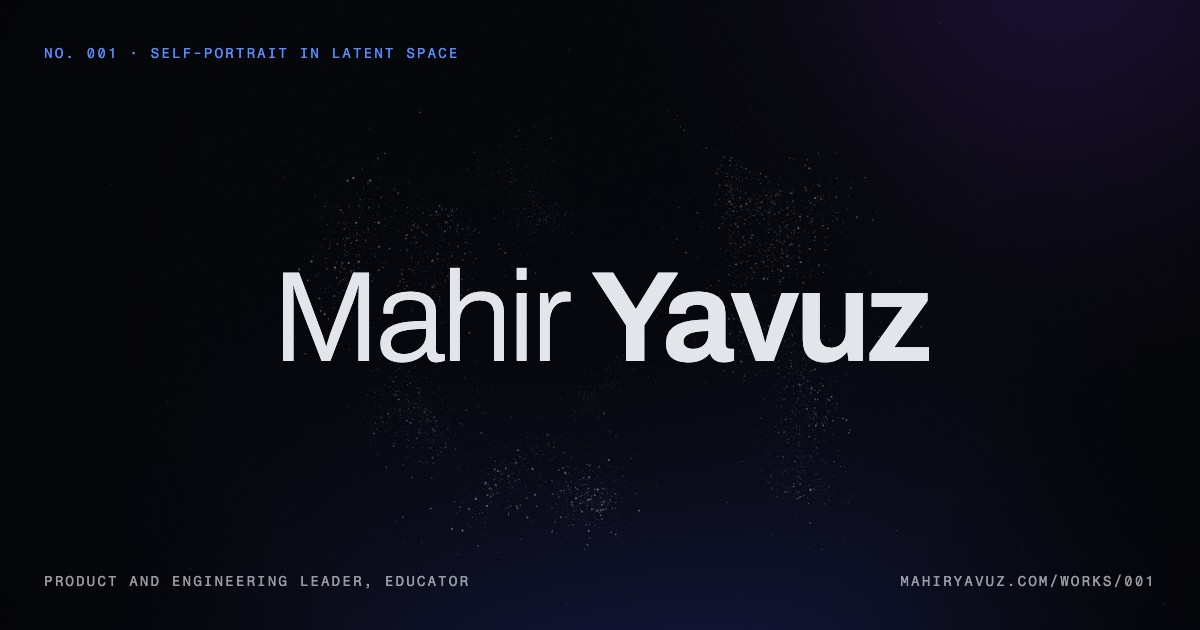
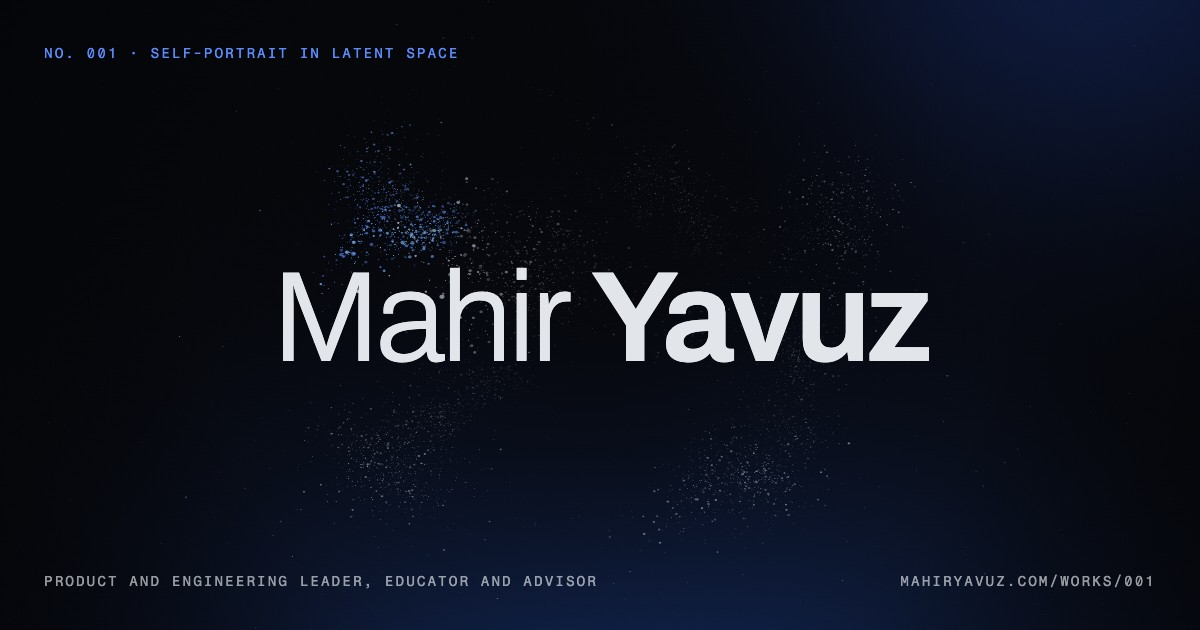
Add advisor to the role line on every page and share image
Product and engineering leader, educator and advisor, working with data
since 1998. On 002 the longer line now wraps after the roles.

diff --git a/index.html b/index.html
@@ -3,8 +3,8 @@
 <head>
 <meta charset="utf-8">
 <meta name="viewport" content="width=device-width, initial-scale=1">
-<title>Mahir Yavuz · Product and engineering leader, educator</title>
-<meta name="description" content="Mahir Yavuz is a product and engineering leader and educator, working with data since 1998. Head of Engineering at AirOps; before that Etsy, Topos and R/GA.">
+<title>Mahir Yavuz · Product and engineering leader, educator and advisor</title>
+<meta name="description" content="Mahir Yavuz is a product and engineering leader, educator and advisor, working with data since 1998. Head of Engineering at AirOps; before that Etsy, Topos and R/GA.">
 <meta name="author" content="Mahir Yavuz">
 <link rel="canonical" href="https://mahiryavuz.com/">
 <link rel="icon" href="/favicon.svg" type="image/svg+xml">
@@ -15,7 +15,7 @@
 <meta property="profile:last_name" content="Yavuz">
 <meta property="og:site_name" content="Mahir Yavuz">
 <meta property="og:title" content="Mahir Yavuz">
-<meta property="og:description" content="Product and engineering leader, educator, working with data since 1998.">
+<meta property="og:description" content="Product and engineering leader, educator and advisor, working with data since 1998.">
 <meta property="og:url" content="https://mahiryavuz.com/">
 <meta property="og:image" content="https://mahiryavuz.com/og.jpg">
 <meta property="og:image:width" content="1200">
@@ -57,7 +57,7 @@
       "name": "Mahir Yavuz",
       "url": "https://mahiryavuz.com/",
       "image": "https://mahiryavuz.com/profile.jpg",
-      "description": "Product and engineering leader and educator, working with data since 1998.",
+      "description": "Product and engineering leader, educator and advisor, working with data since 1998.",
       "jobTitle": "Head of Engineering",
       "worksFor": {
         "@type": "Organization",
@@ -118,7 +118,7 @@
 <body>
   <main>
     <h1>Mahir Yavuz</h1>
-    <p class="role">Product and engineering leader, educator, working with data since&nbsp;1998.</p>
+    <p class="role">Product and engineering leader, educator and advisor, working with data since&nbsp;1998.</p>
     <!-- gen:bio -->
     <p class="bio-text">Head of Engineering at AirOps. Before that, Mahir was Head of Engineering for Search, Recommendations and Ads at Etsy, co-founder and CTO of Topos, Director of Data Science at R/GA and Senior Researcher at Ars Electronica Futurelab in Linz, and his teams have taken on data problems for companies including Nike, PwC, Google and Microsoft. He has taught since 2003, at Columbia University, the University of Pennsylvania, Pratt and the University of Art and Design Linz, with guest lectures at MIT, NYU and SVA. His work has been shown at the Ars Electronica Festival, SIGGRAPH, ISEA and the Istanbul Biennial, and he has spoken at TEDx Istanbul and Vienna, Microsoft Build, Visualized and the Fast Company Innovation Festival.</p>
     <!-- /gen:bio -->

diff --git a/works/002/index.html b/works/002/index.html
@@ -4,7 +4,7 @@
 <meta charset="utf-8">
 <meta name="viewport" content="width=device-width, initial-scale=1, viewport-fit=cover">
 <title>Mahir Yavuz · Self-portrait in type</title>
-<meta name="description" content="Self-portrait in type (No. 002): the homepage of Mahir Yavuz, product and engineering leader and educator, as a letterpress print with his portrait set in the page’s own text.">
+<meta name="description" content="Self-portrait in type (No. 002): the homepage of Mahir Yavuz, product and engineering leader, educator and advisor, as a letterpress print with his portrait set in the page’s own text.">
 <meta name="author" content="Mahir Yavuz">
 <link rel="canonical" href="https://mahiryavuz.com/works/002/">
 <link rel="icon" href="/favicon.svg" type="image/svg+xml">
@@ -42,7 +42,7 @@
       "name": "Mahir Yavuz",
       "url": "https://mahiryavuz.com/",
       "image": "https://mahiryavuz.com/profile.jpg",
-      "description": "Product and engineering leader and educator, working with data since 1998.",
+      "description": "Product and engineering leader, educator and advisor, working with data since 1998.",
       "jobTitle": "Head of Engineering",
       "worksFor": {
         "@type": "Organization",
@@ -179,6 +179,8 @@
   @keyframes press { from { opacity: 0; font-weight: 400; } 55% { opacity: 1; } to { opacity: 1; font-weight: 720; } }
 
   .role { margin: 0 0 2.4rem; font-size: .74rem; font-weight: 500; letter-spacing: .15em; text-transform: uppercase; color: var(--faint); }
+  /* when the line has to wrap, wrap it after the roles */
+  .role span { display: inline-block; }
 
   .bio p {
     position: relative; margin: 0 0 1.05em; max-width: 34em;
@@ -237,7 +239,7 @@
 
     <article class="text">
       <h1 class="name" id="name">Mahir Yavuz</h1>
-      <p class="role rise" style="--i: 0">Product and engineering leader, educator, working with data since 1998</p>
+      <p class="role rise" style="--i: 0"><span>Product and engineering leader, educator and advisor,</span> <span>working with data since 1998</span></p>
       <div class="bio rise" style="--i: 1">
         <p><b>Mahir is the Head of Engineering at AirOps, having led Search, Recommendations, and Ads at Etsy.</b> With over 20 years of experience in product development, data science, and AI/ML, he has led teams in developing innovative solutions for companies such as Nike, PwC, Google, and Microsoft.</p>
         <p>Previously, Mahir served as Co-founder and CTO of Topos, Director of Data Science at R/GA, and Senior Researcher at Ars Electronica Futurelab in Linz. His work has been featured globally at events like the Ars Electronica Festival and SIGGRAPH, and he frequently speaks at conferences including Microsoft Build, TEDx, and Visualized.</p>

diff --git a/works/index.html b/works/index.html
@@ -4,7 +4,7 @@
 <meta charset="utf-8">
 <meta name="viewport" content="width=device-width, initial-scale=1, viewport-fit=cover">
 <title>Works · Mahir Yavuz</title>
-<meta name="description" content="Artworks by Mahir Yavuz, a new one some days; the homepage always shows the latest. Product and engineering leader and educator, working with data since 1998.">
+<meta name="description" content="Artworks by Mahir Yavuz, a new one some days; the homepage always shows the latest. Product and engineering leader, educator and advisor, working with data since 1998.">
 <meta name="author" content="Mahir Yavuz">
 <link rel="canonical" href="https://mahiryavuz.com/works/">
 <link rel="icon" href="/favicon.svg" type="image/svg+xml">
@@ -73,7 +73,7 @@
       "name": "Mahir Yavuz",
       "url": "https://mahiryavuz.com/",
       "image": "https://mahiryavuz.com/profile.jpg",
-      "description": "Product and engineering leader and educator, working with data since 1998.",
+      "description": "Product and engineering leader, educator and advisor, working with data since 1998.",
       "jobTitle": "Head of Engineering",
       "worksFor": {
         "@type": "Organization",
@@ -199,7 +199,7 @@
     </ol>
 
     <footer>
-      <p class="about"><strong>Mahir Yavuz</strong> is a product and engineering leader and educator, working with data since&nbsp;1998.</p>
+      <p class="about"><strong>Mahir Yavuz</strong> is a product and engineering leader, educator and advisor, working with data since&nbsp;1998.</p>
       <!-- gen:bio -->
       <p class="bio-text">Head of Engineering at AirOps. Before that, Mahir was Head of Engineering for Search, Recommendations and Ads at Etsy, co-founder and CTO of Topos, Director of Data Science at R/GA and Senior Researcher at Ars Electronica Futurelab in Linz, and his teams have taken on data problems for companies including Nike, PwC, Google and Microsoft. He has taught since 2003, at Columbia University, the University of Pennsylvania, Pratt and the University of Art and Design Linz, with guest lectures at MIT, NYU and SVA. His work has been shown at the Ars Electronica Festival, SIGGRAPH, ISEA and the Istanbul Biennial, and he has spoken at TEDx Istanbul and Vienna, Microsoft Build, Visualized and the Fast Company Innovation Festival.</p>
       <!-- /gen:bio -->

diff --git a/works/001/index.html b/works/001/index.html
@@ -4,7 +4,7 @@
 <meta charset="utf-8">
 <meta name="viewport" content="width=device-width, initial-scale=1, viewport-fit=cover">
 <title>Mahir Yavuz · Self-portrait in latent space</title>
-<meta name="description" content="Self-portrait in latent space (No. 001): Mahir Yavuz, product and engineering leader and educator, as an interactive cloud of points that gathers into his portrait.">
+<meta name="description" content="Self-portrait in latent space (No. 001): Mahir Yavuz, product and engineering leader, educator and advisor, as an interactive cloud of points that gathers into his portrait.">
 <meta name="author" content="Mahir Yavuz">
 <link rel="canonical" href="https://mahiryavuz.com/works/001/">
 <link rel="icon" href="/favicon.svg" type="image/svg+xml">
@@ -42,7 +42,7 @@
       "name": "Mahir Yavuz",
       "url": "https://mahiryavuz.com/",
       "image": "https://mahiryavuz.com/profile.jpg",
-      "description": "Product and engineering leader and educator, working with data since 1998.",
+      "description": "Product and engineering leader, educator and advisor, working with data since 1998.",
       "jobTitle": "Head of Engineering",
       "worksFor": {
         "@type": "Organization",
@@ -341,7 +341,7 @@
     <div class="about-inner">
       <p class="kicker rv">About</p>
       <h2 id="about-title" class="about-title rv" tabindex="-1">Mahir <strong>Yavuz</strong></h2>
-      <p class="lead rv">Product and engineering leader, educator, working with data since&nbsp;1998.</p>
+      <p class="lead rv">Product and engineering leader, educator and advisor, working with data since&nbsp;1998.</p>
       <p class="cta-row rv"><a class="cta" href="https://www.linkedin.com/in/mahiryavuz/" rel="me">Connect on LinkedIn <span aria-hidden="true">↗</span></a></p>
       <p class="body rv">Mahir builds the teams and systems behind AI products and search, recommendation and ads platforms. Over two decades his teams have taken on data problems for companies including Nike, PwC, Google and Microsoft.</p>
       <p class="body rv">His work spans engineering, data visualization and media art, and has been shown at the Ars Electronica Festival, SIGGRAPH, ISEA and the Istanbul Biennial. He has taught since 2003, most recently at Columbia.</p>

diff --git a/works/_build.py b/works/_build.py
@@ -21,7 +21,7 @@ import re
 ROOT = pathlib.Path(__file__).resolve().parent.parent
 SITE = 'https://mahiryavuz.com'
 
-ROLE = 'Product and engineering leader and educator, working with data since 1998.'
+ROLE = 'Product and engineering leader, educator and advisor, working with data since 1998.'
 BIO = (
     'Head of Engineering at AirOps. Before that, Mahir was Head of Engineering for Search, Recommendations '
     'and Ads at Etsy, co-founder and CTO of Topos, Director of Data Science at R/GA and Senior Researcher at '
